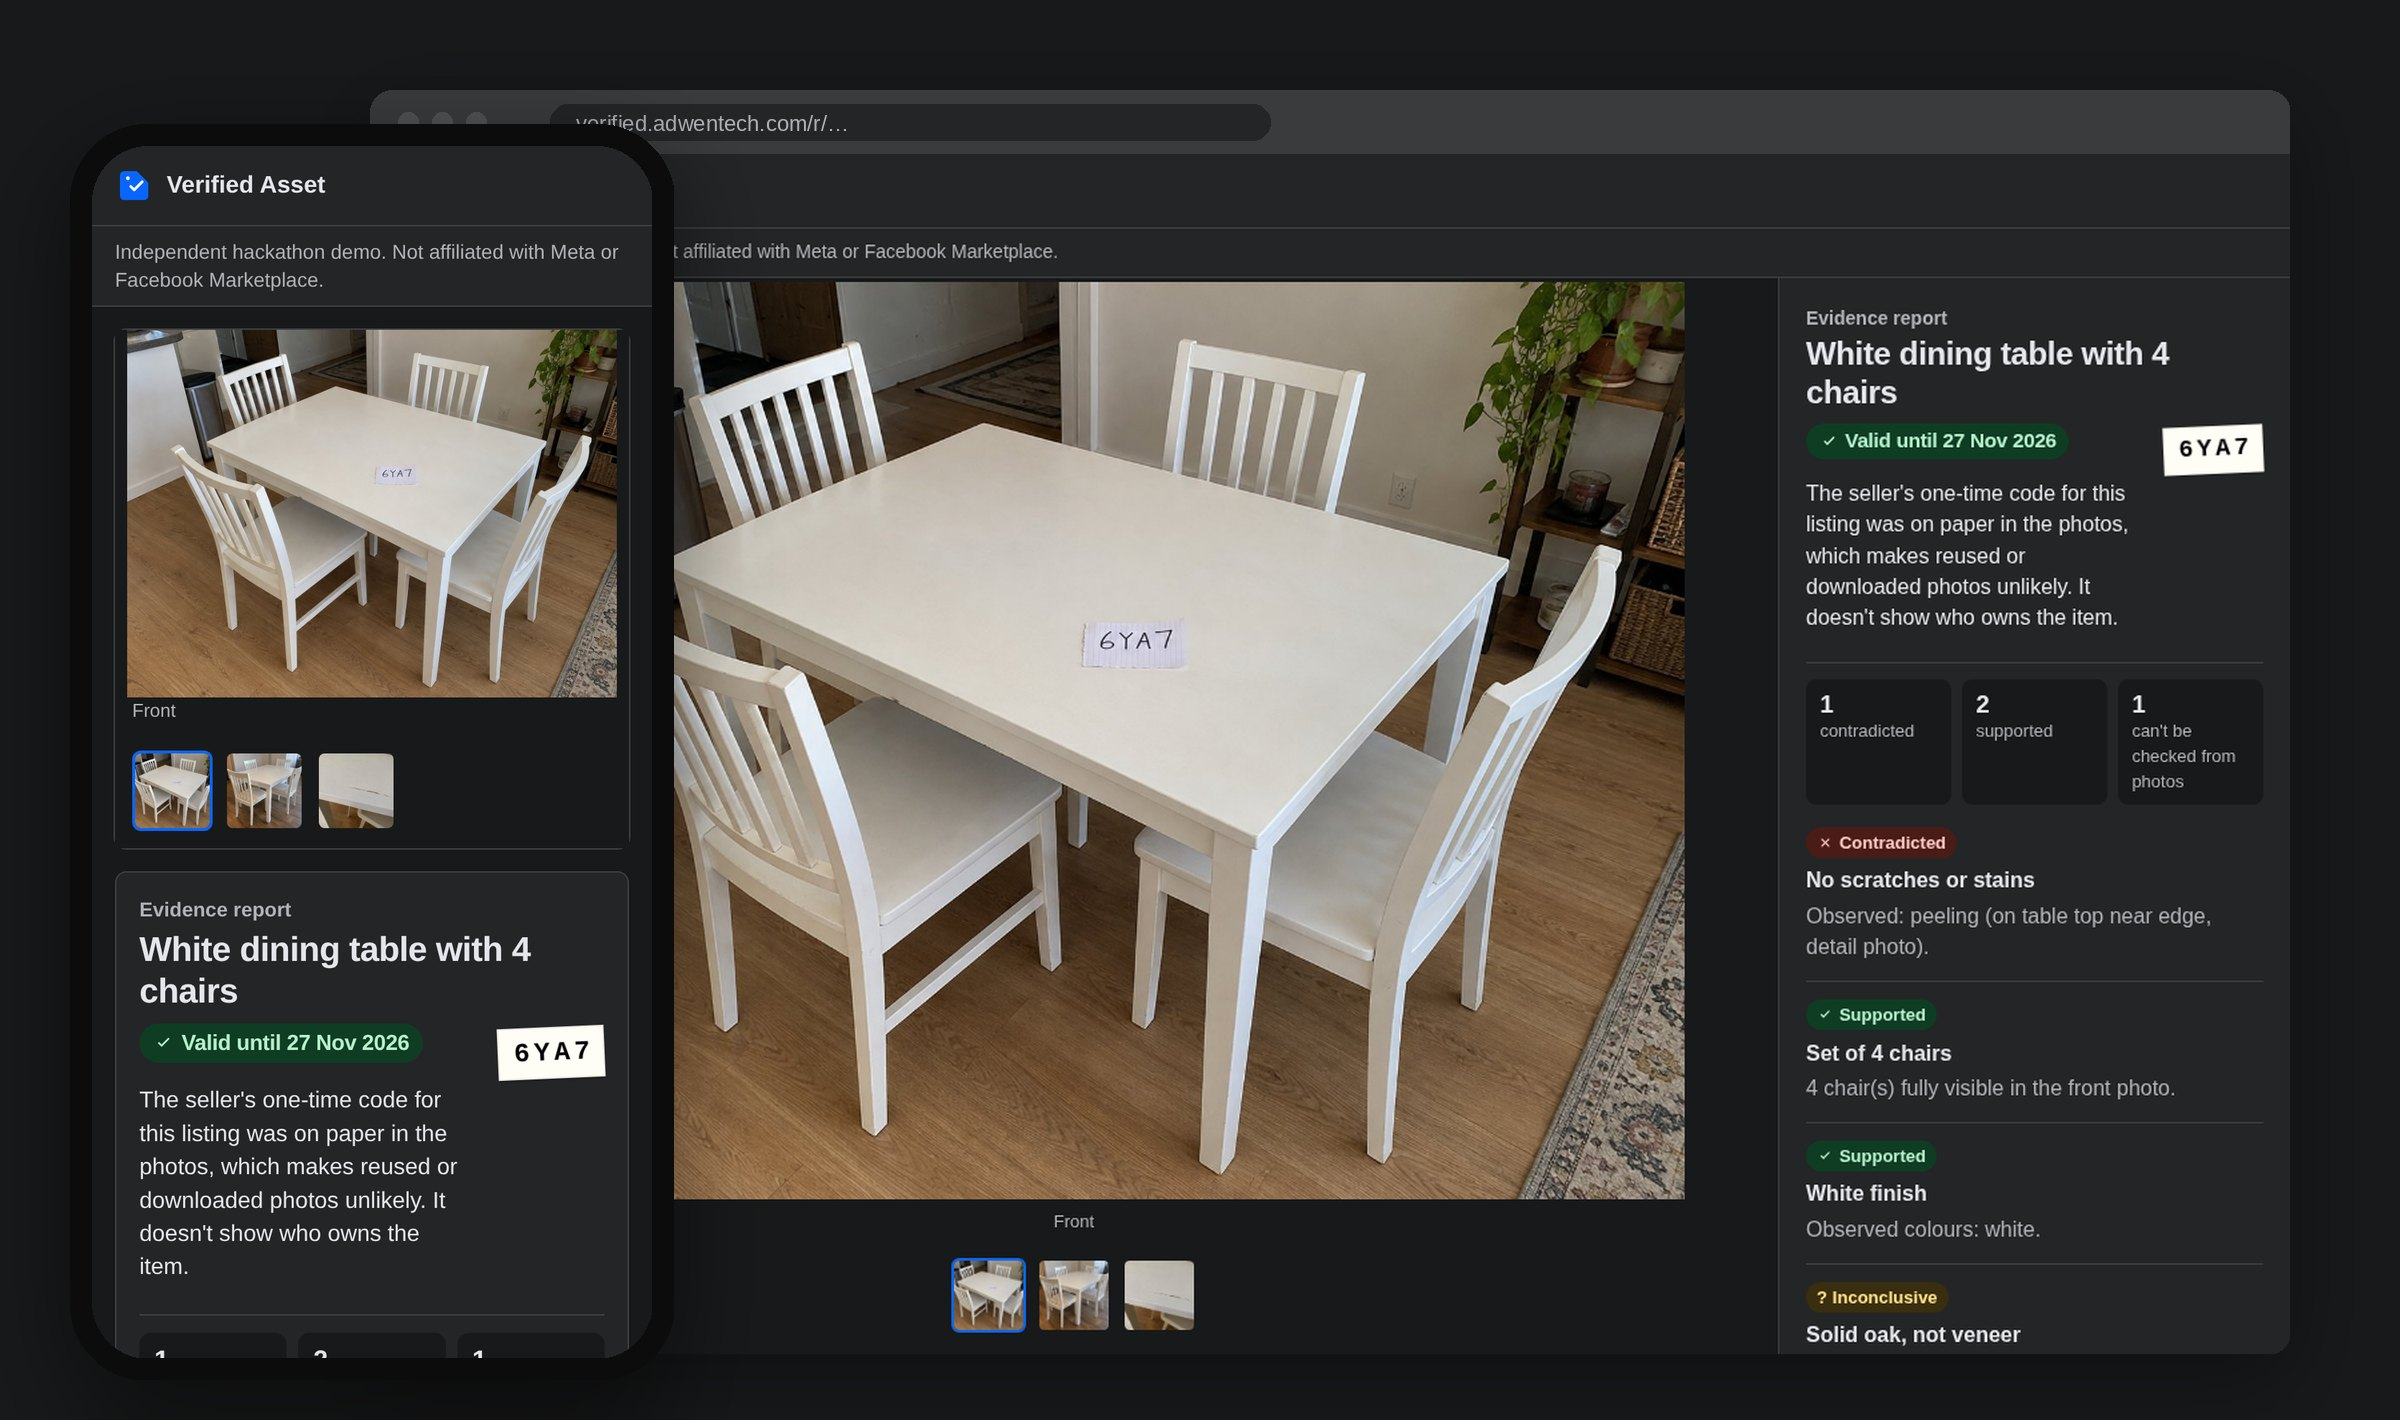
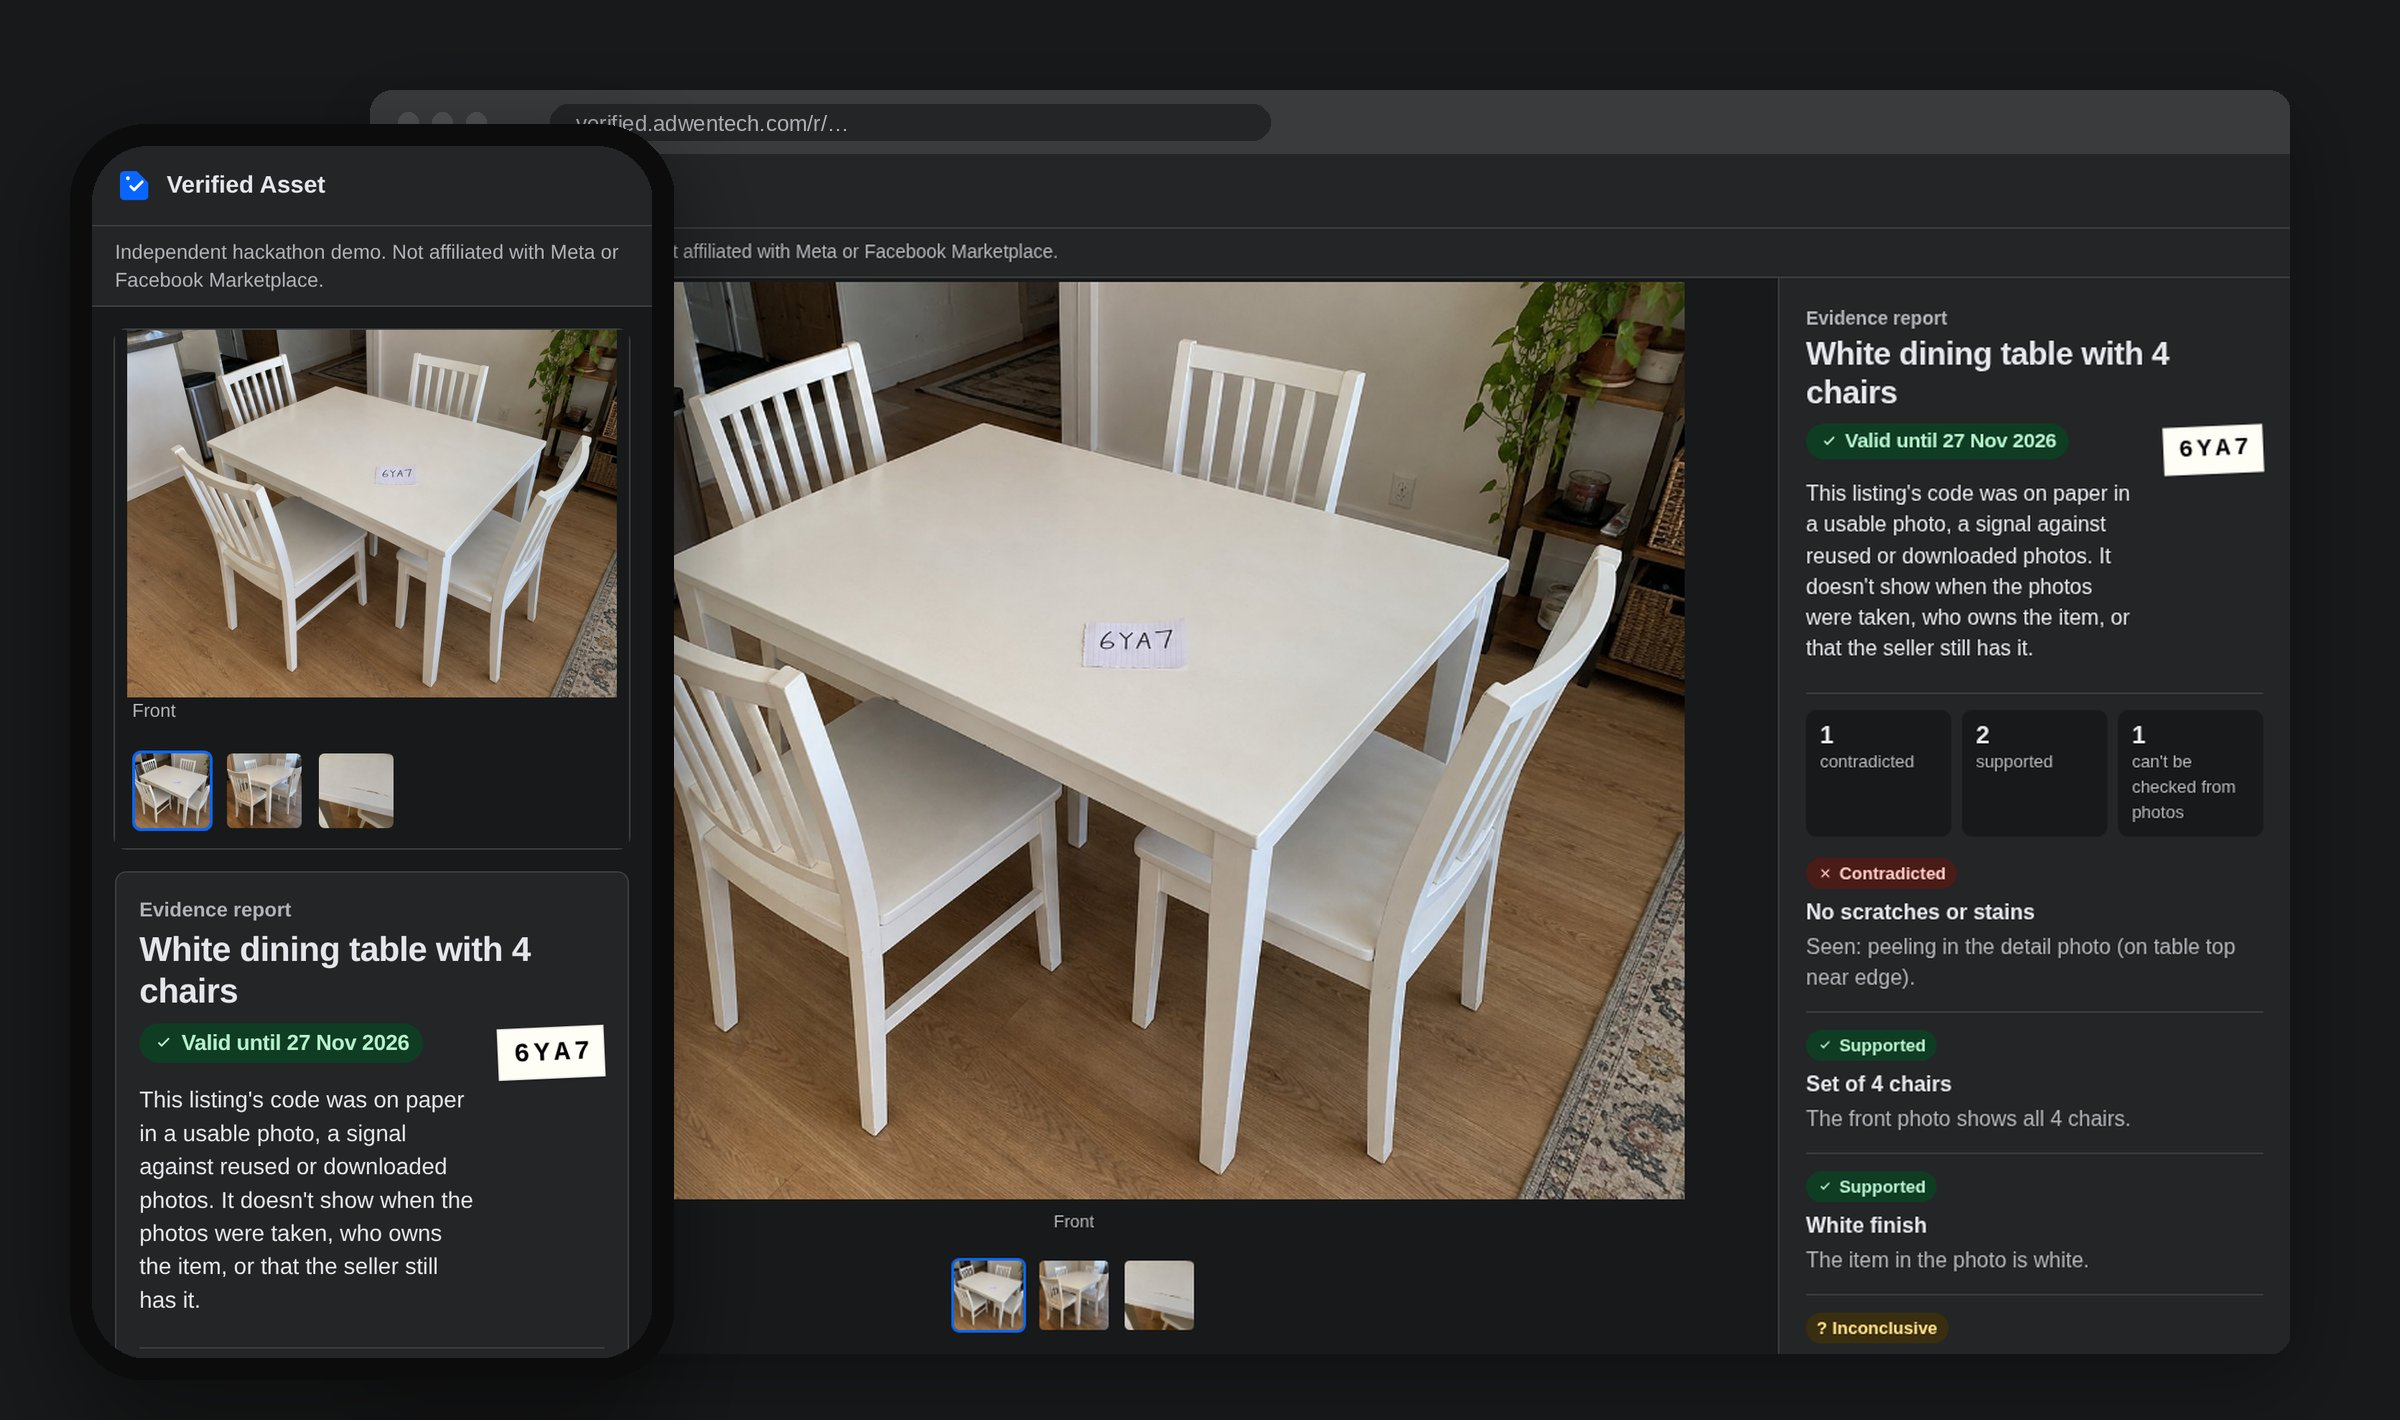
README: point judges at the sample; reshoot hero and walkthrough
New screenshots show the plain-language verdicts, the listing's code
wording and SAM's box on the seller's close-up photo. They come from the
same Muse Spark and SAM results as the live check, served from the
observation cache (no new API calls).

diff --git a/README.md b/README.md
@@ -34,6 +34,8 @@ Local pickup is where second-hand deals go wrong: the "set of six" has four chai
 
 The seller writes their claims, takes the few photos those claims need with the listing's code written on paper, and gets a report link to paste into the listing. Buyers open it without signing up.
 
+On the [live site](https://verified.adwentech.com), **Try the sample** runs the whole seller flow on the dining set below. It replays recorded Muse Spark observations of those photos, so it needs no photos of your own and makes no API call. Change "Set of 4 chairs" to 6 and check again to see a contradiction.
+
 <p align="center">
   <img src="docs/media/walkthrough.gif" alt="Walkthrough: the seller writes claims, takes guided photos with a code on paper, Muse Spark observes and rules decide, the buyer opens the report, and editing the listing voids it." width="88%">
 </p>
